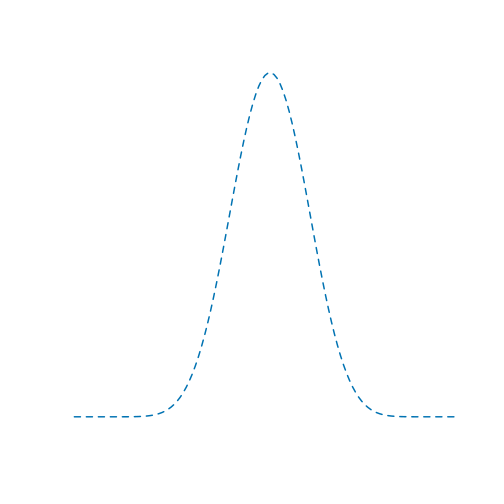
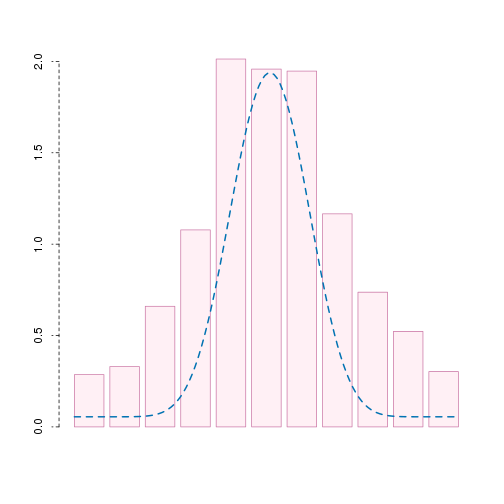
what?

diff --git a/vignettes/shape-atac.md b/vignettes/shape-atac.md
@@ -134,15 +134,13 @@ Plot the estimated null distribution
 
 ```r
 pal <- color_palette()
-#hist(
-#  dt.ct[, p_hat],
-#  breaks = seq(0, 1, length.out = n_breaks + spline_order - 3),
-#  plot = TRUE,
-#  col = "lavenderblush",
-#  border = pal[["pink"]],
-#  lty = 2
-#)
-#par(new = TRUE)
+barplot(
+  pi_init,
+  col = "lavenderblush",
+  border = pal[["pink"]],
+  lty = 2
+)
+par(new = TRUE)
 x <- 1:128 / 129
 plot(
   x,
